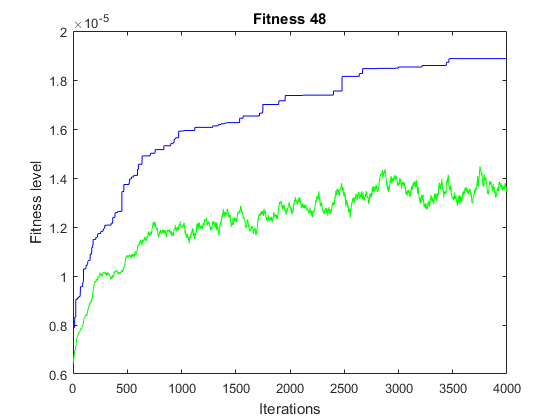
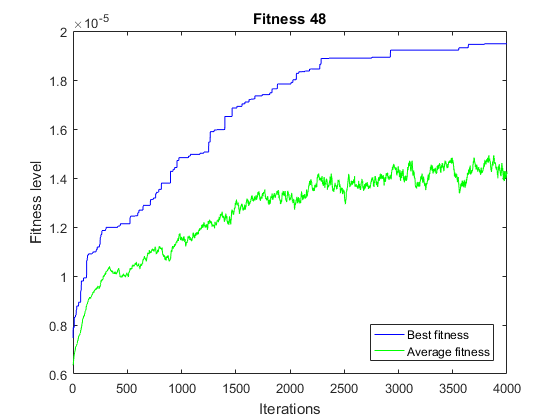
Innan inlämning

diff --git a/main_ga.m b/main_ga.m
@@ -73,15 +73,13 @@ xy = cities';
          hold on
          plot(1:4000, resultStruct.avgFitnesses, 'g')
          hold on
+         legend('Best fitness','Average fitness', 'Location','southeast')
          
          %figure
          %title('Average fitnesses 48')
          %xlabel('Iterations')
          %ylabel('Average fitness')
          
-         resultStruct48 = resultStruct;
-        
-        
         % the distance of the best tour
         %fprintf('\n Number of generations: %d \n Run number: %d \n The distance of the best tour = %d\n',numGen, runs, resultStruct.minDist);
         
